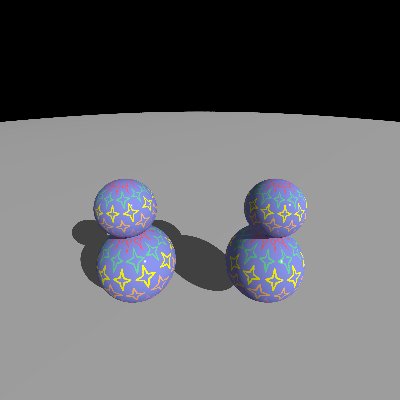
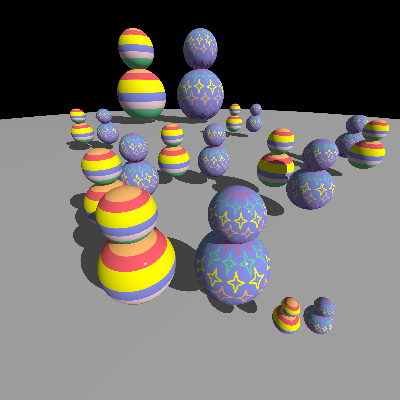
Abgabe-05

Changed region(s): [[0.03, 0.06, 1.0, 0.84], [0.0, 0.3, 0.03, 0.33]]

diff --git a/src/cgg/a05/Main.java b/src/cgg/a05/Main.java
@@ -25,38 +25,38 @@ public class Main {
     //Licht und Kamera erstellen
     ArrayList<Lichtquelle> licht = new ArrayList<>();
     licht.add(new Richtungslichtquelle(vec3(10,-10,10), white));
-    //Mat44 transformationKamera = multiply(move(vec3(0,550,-40)),rotate(vec3(1,0,0),-20));
     Mat44 transformationKamera = multiply(move(vec3(0,-6,0.6)),rotate(vec3(1,0,0),30));
     Lochkamera kamera = new Lochkamera(Math.PI/2, 400, 400, transformationKamera);
-    //System.out.println(move(vec3(50,0,0)));
 
-    //Szene mit Kugeln erstellen
-    ArrayList<Shape> k = new ArrayList<>();
-    k.add(new Kugel(vec3(0,1001,-15), 1000, new PhongMaterial(gray, white, 1000.0)));
-    TexturedPhongMaterial musterKugel = new TexturedPhongMaterial(new ImageTexture("data/sterne2.png"), new ConstantColor(white), new ConstantColor(color(1000.0)));
-    //k.add(new Kugel(vec3(0,-1.3,-4), 1.7, musterKugel));
-    //k.add(new Kugel(vec3(8,-1.3,-4), 1.7, musterKugel));
+    //Texturen fuer Kugeln erstellen
+    TexturedPhongMaterial sterne = new TexturedPhongMaterial(new ImageTexture("data/sterne2.png"), new ConstantColor(white), new ConstantColor(color(1000.0)));
+    TexturedPhongMaterial streifen = new TexturedPhongMaterial(new ImageTexture("data/streifen.png"), new ConstantColor(white), new ConstantColor(color(1000.0)));
 
-    //Schneemann erstellen
-    ArrayList<Shape> schneemannList = new ArrayList<>();
-    schneemannList.add(new Kugel(vec3(0,-1.1,-4), 1.2, musterKugel));
-    schneemannList.add(new Kugel(vec3(0,-3.1,-4), 0.8, musterKugel));
-    Group schneemannNormal = new Group(schneemannList, move(vec3(0,0,0)));
-    Mat44 transformationSchneemann1 = move(vec3(2,0,0));
-    Mat44 transformationSchneemann2 = move(vec3(-2,0,0));
-    Group schneemann1 = new Group(schneemannList, transformationSchneemann1);
-    Group schneemann2 = new Group(schneemannList, transformationSchneemann2);
+    //Gruppe mit zwei Schneemaennern mit unetrschiedlichen Texturen erstellen
+    Kugel schneeMuster1 = new Kugel(vec3(1,-1,-4), 1.2, sterne);
+    Kugel schneeMuster2 = new Kugel(vec3(1,-2.9,-4), 0.8, sterne);
+    Group schneemannSterne = new Group(schneeMuster1, schneeMuster2);
+    Kugel schneeStreifen1 = new Kugel(vec3(-2,-1,-4), 1.2, streifen);
+    Kugel schneeStreifen2 = new Kugel(vec3(-2,-2.9,-4), 0.8, streifen);
+    Group schneemannStreifen = new Group(schneeStreifen1, schneeStreifen2);
+    Group zweiSchneemaenner = new Group(schneemannSterne, schneemannStreifen);
 
-    //Mat44 transformationKugel = move(vec3(0,0,0));
-    Group hintergrund = new Group(k, move(vec3(-0,0,0)));
-    ArrayList<Shape> weltList = new ArrayList<>();
-    weltList.add(schneemann1);
-    weltList.add(schneemann2);
-    weltList.add(hintergrund);
-    Group welt = new Group(weltList, move(vec3(0,0,0)));
+    //die Gruppen von Schneemaenner immer wieder verschieben
+    Group schneemann1 = new Group(zweiSchneemaenner);
+    Group schneemann2 = new Group(move(vec3(0,0,-10)), zweiSchneemaenner);
+    Group schneemann3 = new Group(multiply(move(vec3(0,0,-9)),rotate(vec3(0,1,0),80)), zweiSchneemaenner);
+    Group schneemann4 = new Group(multiply(move(vec3(2,0,-9)),rotate(vec3(0,1,0),-70)), zweiSchneemaenner);
+    Group schneemann5 = new Group(move(vec3(-12,0,-20)), zweiSchneemaenner);
+    Group schneemann6 = new Group(move(vec3(7,0,-27)), zweiSchneemaenner);
+    Group schneemann7 = new Group(multiply(move(vec3(18,0,-17)),rotate(vec3(0,1,0),80)), zweiSchneemaenner);
+    Group schneemann8 = new Group(multiply(move(vec3(3,0,-1.4)),scale(vec3(0.3))), zweiSchneemaenner);
+    Group schneemann9 = new Group(multiply(move(vec3(-4,0,-30)),scale(vec3(4))), zweiSchneemaenner);
+
+    //alle Kugeln in eine Gruppe machen
+    Kugel hinterKugel = new Kugel(vec3(0,1001,-30), 1000, new PhongMaterial(gray, white, 1000.0));
+    Group hintergrund = new Group(hinterKugel, schneemann1, schneemann2, schneemann3, schneemann4, schneemann5, schneemann6, schneemann7, schneemann8, schneemann9);
+    Group welt = new Group(hintergrund);
     
-    
-
     var image = new Image(width, height);
     RayTracer rayTracer = new RayTracer(kamera, welt, licht);
     //image.sample(rayTracer); //setzt Pixelfarben, ohne StratifiedSampling

diff --git a/src/cgg/a05/Group.java b/src/cgg/a05/Group.java
@@ -1,6 +1,7 @@
 package cgg.a05;
 
 import static tools.Functions.invert;
+import static tools.Functions.move;
 import static tools.Functions.multiplyDirection;
 import static tools.Functions.multiplyPoint;
 import static tools.Functions.transpose;
@@ -10,6 +11,7 @@ import java.util.ArrayList;
 import cgg.a02.Hit;
 import cgg.a02.Ray;
 import tools.Mat44;
+import tools.Vec3;
 
 public class Group implements Shape {
     private ArrayList<Shape> elemente;
@@ -17,12 +19,28 @@ public class Group implements Shape {
     private Mat44 transformationInvert;
     private Mat44 transformationInvertTransponse;
 
-    public Group(ArrayList<Shape> elemente, Mat44 transformation) {
-        this.elemente = elemente;
+    public Group(Mat44 transformation, Shape... shapes) {
         this.transformation = transformation;
         //Matrizen berechnen, damit Berechnung nur einmal noetig ist
         this.transformationInvert = invert(this.transformation);
         this.transformationInvertTransponse = transpose(this.transformationInvert);
+
+        elemente = new ArrayList<>();
+        for(int i=0; i < shapes.length; i++) {
+            elemente.add(shapes[i]);
+        }
+    }
+
+    public Group(Shape... shapes) {
+        //es soll keine Transformation stattfinden
+        this.transformation = move(Vec3.zero);
+        this.transformationInvert = transformation;
+        this.transformationInvertTransponse = transformation;
+
+        elemente = new ArrayList<>();
+        for(int i=0; i < shapes.length; i++) {
+            elemente.add(shapes[i]);
+        }
     }
 
     /**

diff --git a/src/cgg/a02/Lochkamera.java b/src/cgg/a02/Lochkamera.java
@@ -7,13 +7,13 @@ public class Lochkamera {
     private double winkelOeffnung;
     private int width;
     private int height;
-    private Mat44 matrix;
+    private Mat44 transformation;
 
-    public Lochkamera(double winkelOeffnung, int width, int height, Mat44 matrix) {
+    public Lochkamera(double winkelOeffnung, int width, int height, Mat44 transformation) {
         this.winkelOeffnung = winkelOeffnung;
         this.width = width;
         this.height = height;
-        this.matrix = matrix;
+        this.transformation = transformation;
     }
 
     /**
@@ -30,9 +30,9 @@ public class Lochkamera {
         double yVec = y - (height/2);
         double zVec = -((width/2)/(Math.tan(winkelOeffnung/2)));
 
-        Vec3 punktTransformiert = multiplyPoint(matrix, Vec3.zero); //Transformation des Punktes, von Nullpunkt ausgehend
+        Vec3 punktTransformiert = multiplyPoint(transformation, Vec3.zero); //Transformation des Punktes, von Nullpunkt ausgehend
         Vec3 vec3= 	new Vec3(xVec, yVec, zVec);
-        Vec3 vec3transformiert = multiplyDirection(matrix, vec3); //Transformation der Richtung
+        Vec3 vec3transformiert = multiplyDirection(transformation, vec3); //Transformation der Richtung
         Ray ray = new Ray(punktTransformiert, normalize(vec3transformiert), 0, 100);
         return ray;
     }
